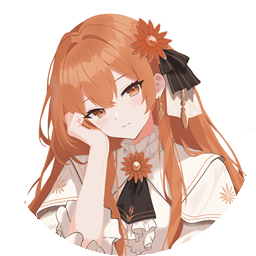
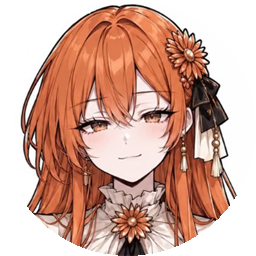
1

diff --git a/Android version/app/src/main/java/com/obliphur/oit/core/Comm.kt b/Android version/app/src/main/java/com/obliphur/oit/core/Comm.kt
@@ -4610,20 +4610,31 @@ class Comm(
         }
     }
 
-    /** 自带人设的默认头像 (1.0.426): 第一次运行 (或重置后) 放一份, 之后不再自动更新 (1.0.434); 用户自己换过 / 删过的不动. */
+    /** 首次初始化默认头像；升级只替换指纹一致的旧内置图，自选或移除的头像保持不动。 */
     fun seedDefaultAvatar(main: ByteArray?, full: ByteArray?) {
-        if (defaultAvatarVersion >= 1) return
+        val priorVersion = defaultAvatarVersion
+        if (priorVersion >= 2) return
+        if (main == null || full == null) return
         val name = "Claudia.txt"
         if (listPersonas().contains(name)) {
             val dst = File(File(dir, "avatars"), avatarName("ai", name))
-            val dstFull = avatarFullFile("ai")
-            runCatching {
+            val dstFull = File(dst.parentFile, dst.name.replace(".png", ".full.png"))
+            val copied = runCatching {
                 dst.parentFile?.mkdirs()
-                if (!dst.exists() && main != null) dst.writeBytes(main)
-                if (!dstFull.exists() && full != null) dstFull.writeBytes(full)
+                fun matches(file: File, sha256: String) = file.isFile &&
+                    java.security.MessageDigest.getInstance("SHA-256").digest(file.readBytes())
+                        .joinToString("") { "%02x".format(it) } == sha256
[2 lines of base64/hex data omitted]
+                val initial = priorVersion == 0 && !dst.exists()
+                if ((initial && !dst.exists()) || matches(dst, oldMain))
+                    dst.writeBytes(main)
+                if ((initial && !dstFull.exists()) || matches(dstFull, oldFull))
+                    dstFull.writeBytes(full)
             }
+            if (copied.isFailure) return
         }
-        defaultAvatarVersion = 1
+        defaultAvatarVersion = 2
         saveCfg()
     }
 

diff --git a/comm/comm_chat.py b/comm/comm_chat.py
@@ -6,6 +6,7 @@ comm.py 的 `class Comm` 继承这个 mixin, 外面看到的还是同一个类.
 """
 
 import json
+import hashlib
 import os
 import random
 import re
@@ -30,6 +31,14 @@ from comm.comm_persona import SHIFT_LO, SHIFT_HI, SHIFT_KEEP, MAX_PERSONA, MEM_M
 from comm.comm_util import (OIT_TAG, COND_TAG, WEEKDAY, MAX_MSG_CHARS, HISTORY_SENT, HISTORY_STEP, HISTORY_CHARS,
                        is_claudia, is_refusal, stamp, urlsplit_host, info_tags, joint_answer, _joint_time, clip_message,
                        cache_layout, oit_text, first_turn, api_messages, sanitize_mem)
+
[2 lines of base64/hex data omitted]
+
+
+def _avatar_hash(path):
+    with open(path, "rb") as source:
+        return hashlib.sha256(source.read()).hexdigest()
 
 
 class ChatMixin:
@@ -56,28 +65,40 @@ class ChatMixin:
             pass
 
     def _seed_default_avatars(self):
-        """自带人设的默认头像 (1.0.426): 第一次运行 (或重置后) 放一份到 avatars, 之后不再自动更新 (1.0.434).
-        用户自己换过 / 删过的不动."""
-        if self.cfg.get("default_avatars"):
+        """首次初始化默认头像；升级只替换指纹一致的旧内置图，不覆盖自选或恢复已移除的头像。"""
+        version = int(self.cfg.get("default_avatars") or 0)
+        if version >= 2:
             return
         names = set(list_personas(self.personas))
+        complete = True
         for persona, file in DEFAULT_AVATARS.items():
             if persona not in names:
                 continue
-            src = os.path.join(HERE, "defaults", "avatars", file)
+            source_root = os.path.dirname(os.path.dirname(os.path.abspath(__file__)))
+            src = os.path.join(source_root, "defaults", "avatars", file)
             dst = os.path.join(self.dir, "avatars", self._avatar_name("ai", persona))
-            if os.path.exists(dst) or not os.path.isfile(src):
+            if not os.path.isfile(src):
+                complete = False
                 continue
             try:
+                initial = version == 0 and not os.path.exists(dst)
                 os.makedirs(os.path.dirname(dst), exist_ok=True)
-                shutil.copyfile(src, dst)
-                full_src = src[:-4] + ".full.png"
-                if os.path.isfile(full_src):
-                    shutil.copyfile(full_src, dst[:-4] + ".full.png")
+                for source, target, old_hash in (
+                        (src, dst, _LEGACY_CLAUDIA_AVATAR),
+                        (src[:-4] + ".full.png", dst[:-4] + ".full.png", _LEGACY_CLAUDIA_FULL)):
+                    legacy = (persona == "Claudia.txt" and os.path.isfile(target)
+                              and _avatar_hash(target) == old_hash)
+                    if not (initial and not os.path.exists(target) or legacy):
+                        continue
+                    if not os.path.isfile(source):
+                        complete = False
+                        continue
+                    shutil.copyfile(source, target)
             except OSError:
-                pass
-        self.cfg["default_avatars"] = True
-        self.save_cfg()
+                complete = False
+        if complete:
+            self.cfg["default_avatars"] = 2
+            self.save_cfg()
 
     def avatar_path(self, who: str) -> str:
         p = self.avatar_dest(who)

diff --git a/config.py b/config.py
@@ -221,7 +221,7 @@ OUTING_MAX_HOURS = 24 * 7
 
 
 APP_NAME = "Obliphur's Integrated Terminal"
-APP_VERSION = "1.0.614"                  # 和 GitHub 上发布的版本号比较 (见 updater.py)
+APP_VERSION = "1.0.615"                  # 和 GitHub 上发布的版本号比较 (见 updater.py)
 AI_VOICE_GAP = 1.0                       # 两条语音之间的默认间隔（秒）
 COMM_SPLIT_INTERVAL_SECONDS = 5          # 分条续发固定等待时间（秒）
 COMM_REWARD_CARRY_PERCENT = 85          # Claudia 完成奖励填满循环后，剩余休息的结转百分比

diff --git a/docs/mechanics/24-comm.md b/docs/mechanics/24-comm.md
@@ -54,7 +54,7 @@ Claudia 可通过 `oit_reading_offer` 申请共读。是否明确表示当前没
 - **头像**: 默认显示 (1.0.430 起; 以前默认关). 打开后聊天里每条消息旁有圆形头像, 设置里多出"我 / 对方"两行, 每行有"选择"和"移除". **点对方的头像**会弹出一个窗口, **显示整张原图** (不裁成圆形 / 不裁成方形, 等比缩放到屏幕放得下, 1.0.439):
   "选择"打开系统的选图窗口(电脑: 资源管理器; 手机: 文件管理器 / 相册), 选好后弹出截取窗口 —— 拖动图片, 滑块 / 滚轮 / 双指缩放, **圆框里的区域就是头像**, 确定后存成 256×256 的圆形 PNG; 同时存一份**整张原图** (`xxx.full.png`, 最长边 4096, 电脑用 GDI+ 重画, 手机用原 Bitmap; 点开头像时显示的就是它). 手机聊天里显示时再裁成圆.
   电脑用 Windows 自带的 GDI+ (`avatar.py`, 能打开 png / jpg / bmp / gif / tiff), 手机用 `ImageDecoder`. 头像存在数据文件夹的 `avatars/` 里(重置会清掉, 不同步);
-  "对方"的头像跟着人设走(换人设就换头像, 选头像前要先选人设). 没有选过图片的显示名字的第一个字. **Claudia 自带一张默认头像** (1.0.426; 1.0.439 起用 `E:\Download\Claudia.jpg` 作新图源): `defaults/avatars/Claudia.png` (圆形 256, 显示用) + `Claudia.full.png` (2000×2000 整张原图, 点开用), 第一次运行 / 重置后复制到数据目录的 `avatars/`; 之后**不再自动更新** (1.0.434), 用户自己换过 / 删掉的不动; 手机内置在 `assets/avatars/` (`Claudia.png` 圆形 + `Claudia.full.png` 原图).
+  "对方"的头像跟着人设走(换人设就换头像, 选头像前要先选人设). 没有选过图片的显示名字的第一个字. Claudia 默认头像的显示图为 256×256 圆形 PNG，点开时显示 `Claudia.full.png` 完整原图；桌面资源在 `defaults/avatars/`，Android 资源在 `assets/avatars/`。默认头像资源版本 2 仅把与旧内置图 SHA-256 完全一致的文件迁移到新图；用户自选头像及其完整原图不会被覆盖，已移除的头像也不会恢复。
 
 ### 24.2 发给模型的内容
 
@@ -232,7 +232,7 @@ Claudia 可通过 `oit_reading_offer` 申请共读。是否明确表示当前没
 ### 24.3.6 头像 (每个聊天对象各自设置)
 
 - **我的头像和对方的头像都跟着人设走** (1.0.284 起; 以前只有对方的跟着走, "我"的全局一个): 设置 → 沟通 → "🖼 头像" 里设的是**现在选着的这个对象**的两个头像, 换人设就换成那个对象自己的 (没设过就没有头像).
-  文件在数据目录的 `avatars/`: `me_<人设名的 crc>.png` / `ai_<人设名的 crc>.png`, 电脑还有完整版 `*.full.png` (点开头像时放大显示, 1.0.430; Claudia 默认的完整版是 2880×2880 原图, 1.0.435). 没选人设时不能设头像. **Claudia 的默认头像** (1.0.426; 1.0.433 换过方形原图): 第一次运行 (或重置后) 从 `defaults/avatars/` 复制, 设置里记 `default_avatars` 标志, 之后**不再自动更新** (1.0.434); 用户换过 / 删掉的不会被覆盖.
+  文件在数据目录的 `avatars/`: `me_<人设名的 crc>.png` / `ai_<人设名的 crc>.png`，完整原图保存为 `*.full.png`。没选人设时不能设头像。Claudia 首次运行或重置后从内置资源初始化默认图；`default_avatars` 保存资源版本，兼容旧版布尔标志。资源版本 2 使用用户提供的 339×339 原图，只迁移与上一版默认图 SHA-256 一致的文件，不覆盖自选图或恢复已移除的头像。
 - **升级**: 以前的全局 `me.png` 升级后第一次打开时复制给现有的每个人设各一份 (和现在选着的), 然后删掉它; 之后各自设置, 互不影响.
 
 ### 24.3.7 思考 (1.0.341)

diff --git a/README.md b/README.md
@@ -47,7 +47,7 @@ Windows x64 可在「设置 → 额外功能」安装 Microsoft JDK 17，用于 
 | **Settings** | 按模块分页的可调参数；额外功能页提供 AI 语音、Android 构建用 JDK 17、Process Lasso 和音乐工具部署与转换 |
 | **Reset** | 恢复网络并清理数据 |
 
-在设置 → 沟通 → 人设可以查看当前人设的简介，也可以用 AI 协助创建新人设。
+在设置 → 沟通 → 人设可以查看当前人设的简介，也可以用 AI 协助创建新人设。Claudia 默认头像在桌面和 Android 使用同一套资源。
 
 断网有两种方式:**Adapter** 直接禁用网卡;**Proxy** 通过系统代理过滤,不读取系统代理的程序不受其限制.
 
